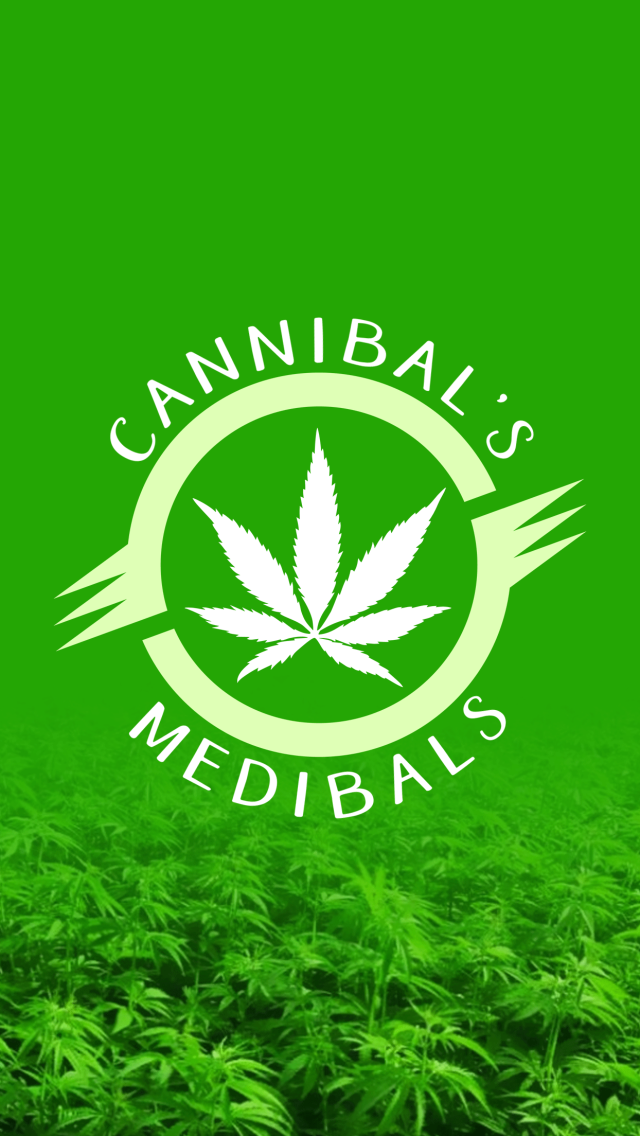
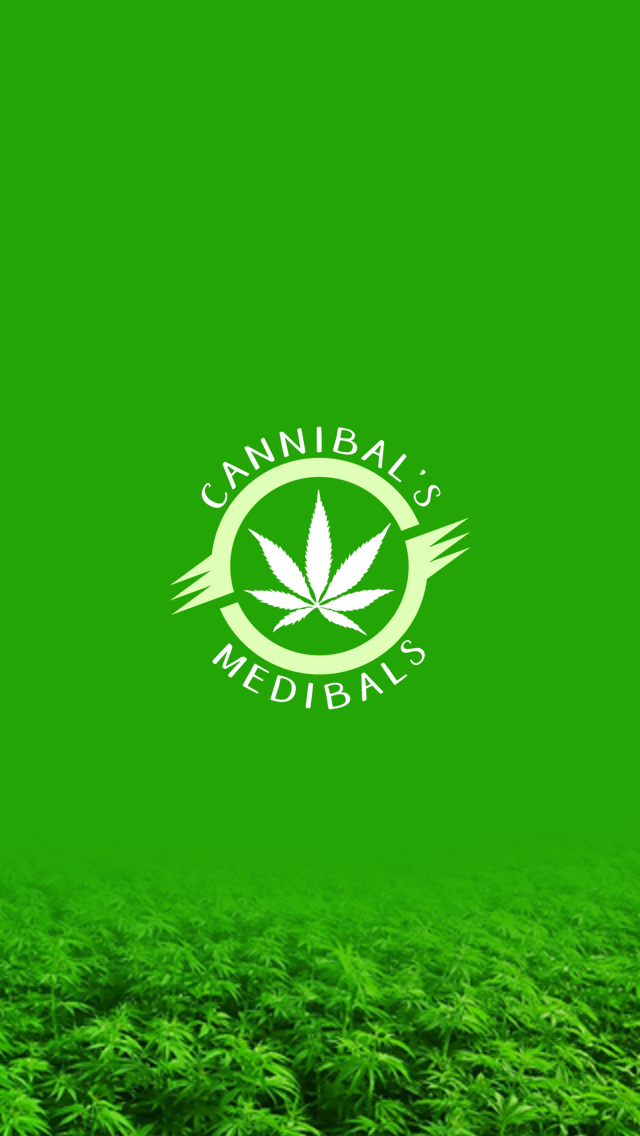
Changes made by Vijay Mittal (vijaymittal.mobileapps@gmail.com).

Changed region(s): [[0.0, 0.2773, 1.0, 1.0], [0.7188, 0.3081, 0.75, 0.3389]]

diff --git a/cannibal/style/style.android.css b/cannibal/style/style.android.css
@@ -924,7 +924,7 @@
 
 @media (min-width:0px) and (max-width:390px) {
     /*****************************************************Login View********************************************************/
-    #loginView .km-content,#signupView .km-content,#signupView2 .km-content,#billingView .km-content,#contactView .km-content,#forgotpasswordView .km-content{background: url('./images/440/640x960.png') !important;}
+    #loginView .km-content,#signupView .km-content,#signupView2 .km-content,#billingView .km-content,#contactView .km-content,#forgotpasswordView .km-content{background: url('./bg/414x716.png') !important;}
     #loginView .wrapper {width:100%;height:auto}
     #loginView .wrapper .logoPrt {width:50%;margin:0px auto;height: auto;margin-top: 12%;}
     #loginView .wrapper .logoPrt p {text-align:center}
@@ -1385,7 +1385,7 @@
 
 @media (min-width:0px) and (max-width:360px) {
     /*****************************************************Login View********************************************************/
-    #loginView .km-content,#signupView .km-content,#signupView2 .km-content,#billingView .km-content,#contactView .km-content,#forgotpasswordView .km-content{background: url('./images/440/640x960.png') !important;}
+    #loginView .km-content,#signupView .km-content,#signupView2 .km-content,#billingView .km-content,#contactView .km-content,#forgotpasswordView .km-content{background: url('./bg/375x647.png') !important;}
     #loginView .wrapper {width:100%;height:auto}
     #loginView .wrapper .logoPrt {width:50%;margin:0px auto;height: auto;margin-top: 12%;}
     #loginView .wrapper .logoPrt p {text-align:center}

diff --git a/cannibal/style/style.ios.css b/cannibal/style/style.ios.css
@@ -1,6 +1,6 @@
 @media (min-width:0px) and (max-width:440px) {
     /*****************************************************Login View********************************************************/
-    #loginView .km-content,#signupView .km-content,#signupView2 .km-content,#billingView .km-content,#contactView .km-content,#forgotpasswordView .km-content{background: url('./images/440/640x960.png') !important;}
+    #loginView .km-content,#signupView .km-content,#signupView2 .km-content,#billingView .km-content,#contactView .km-content,#forgotpasswordView .km-content{background: url('./bg/414x716.png') !important;}
     #loginView .wrapper {width:100%;height:auto}
     #loginView .wrapper .logoPrt {width:50%;margin:0px auto;height: auto;margin-top: 12%;}
     #loginView .wrapper .logoPrt p {text-align:center}
